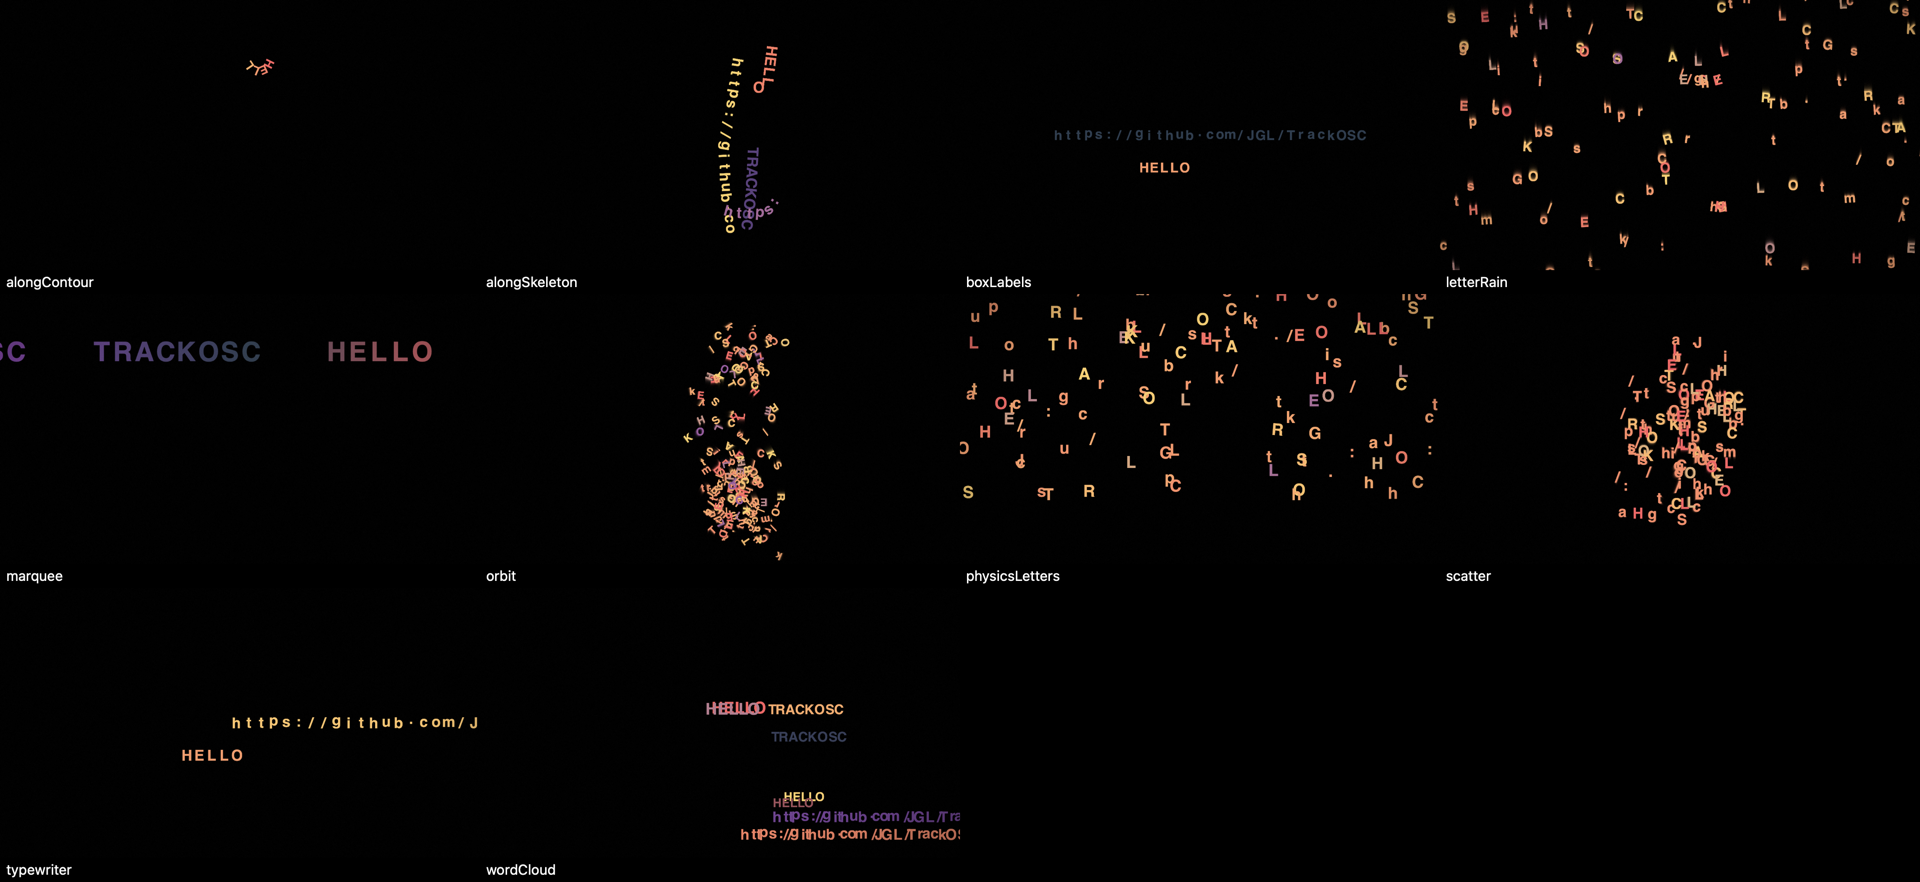
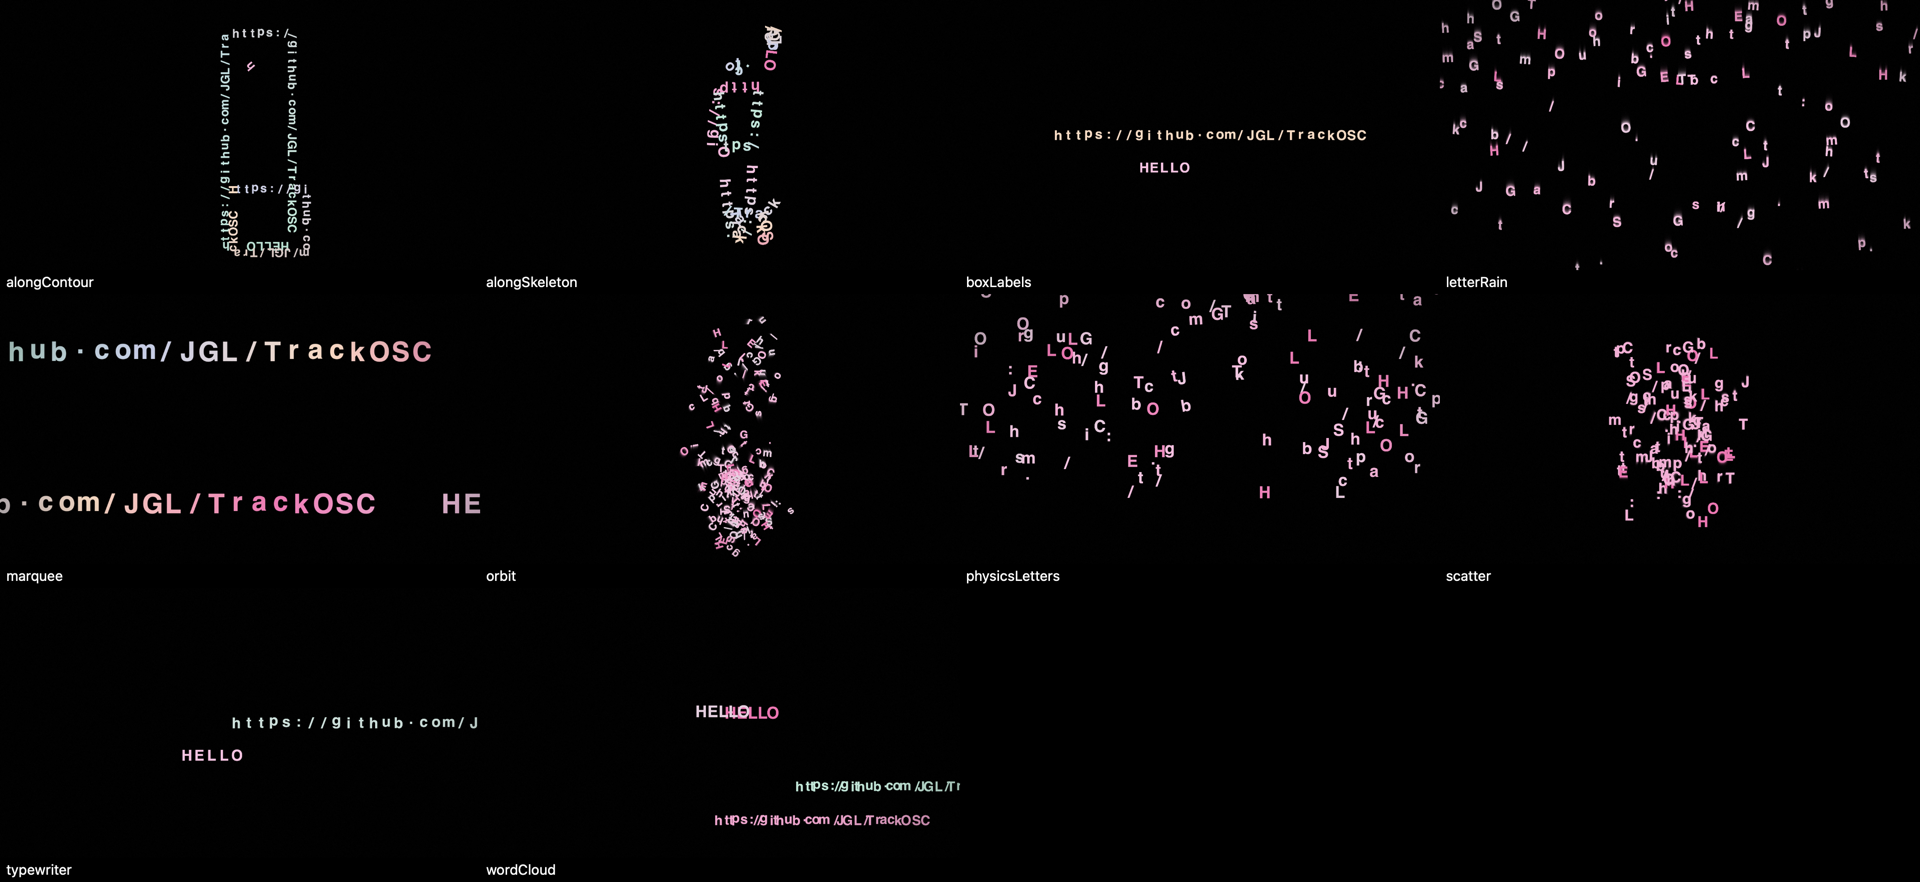
Text: words repeat along every path; heads and animals throughout
Along Skeleton lays the whole sentence, repeated and slowly crawling,
along each person's arm span, torso sides, hips, legs, fingers and head
outline (face landmarks or the circle), and each animal's spine, legs
and ears. Along Contour traces /contours/arr outlines, or faces (jaw
landmarks or the box), bodies and animals together when none arrive.
Marquee adds a row per animal.

diff --git a/Text/LetterSystem.swift b/Text/LetterSystem.swift
@@ -147,93 +147,108 @@ final class LetterSystem {
         }
     }
 
-    /// Words laid along each person's arm span and spine, letter by letter.
+    /// The sentence repeated along every path the scene offers: each
+    /// person's arm span, spine and legs and their head (face landmarks
+    /// when present, otherwise a circle), and each animal's spine, legs,
+    /// ears and tail. Letters crawl slowly along the paths.
     private func layAlongSkeleton(_ scene: TrackingScene, size: Float, aspect: Float, spacing: Float) {
         letters = []
-        guard let atlas else { return }
         let words = pool.words(at: time)
         guard !words.isEmpty else { return }
-        var wordIndex = 0
-        let ppu = pixelsPerUV
-        func lay(_ path: [SIMD2<Float>], text: String, colourT: Float) {
-            guard path.count >= 2 else { return }
-            // Arc length in pixels so letters are evenly spaced on screen.
-            func screen(_ p: SIMD2<Float>) -> SIMD2<Float> { p * ppu }
-            var lengths: [Float] = [0]
-            for i in 1..<path.count { lengths.append(lengths[i - 1] + simd_distance(screen(path[i]), screen(path[i - 1]))) }
-            let total = lengths.last!
-            let step = size * 0.7 * spacing   // letter advance in pixels
-            var s: Float = step * 0.5
-            for character in text where !character.isWhitespace {
-                guard s < total, letters.count < Self.capacity else { break }
-                var k = 1
-                while k < path.count - 1, lengths[k] < s { k += 1 }
-                let t = (s - lengths[k - 1]) / max(lengths[k] - lengths[k - 1], 1e-5)
-                let p = path[k - 1] + (path[k] - path[k - 1]) * t
-                let d = screen(path[k]) - screen(path[k - 1])
-                letters.append(Letter(character: character, word: wordIndex, position: p, rotation: atan2(d.y, d.x), size: 1, colourT: colourT))
-                s += step
+        var paths: [(points: [SIMD2<Float>], colourT: Float)] = []
+        for (pi, person) in scene.persons.enumerated() where person.confidence > 0 {
+            let base = Float(pi) * 0.3
+            func joints(_ ids: [Int]) -> [SIMD2<Float>] { ids.filter { person.visible[$0] }.map { person.joints[$0] } }
+            paths.append((joints([10, 8, 6, 5, 7, 9]), base))            // right wrist → left wrist over the shoulders
+            paths.append((joints([11, 13, 15]), base + 0.15))            // left leg
+            paths.append((joints([12, 14, 16]), base + 0.15))            // right leg
+            paths.append((joints([5, 11]), base + 0.3))                  // left side of the torso
+            paths.append((joints([6, 12]), base + 0.3))                  // right side
+            paths.append((joints([11, 12]), base + 0.3))                 // hips
+            for outline in person.headOutlines(aspect: scene.frameAspect) { paths.append((outline, base + 0.45)) }
+            for hand in person.hands {
+                for finger in [[0, 1, 2, 3, 4], [0, 5, 6, 7, 8], [0, 9, 10, 11, 12], [0, 13, 14, 15, 16], [0, 17, 18, 19, 20]] {
+                    paths.append((finger.filter { hand.visible[$0] }.map { hand.joints[$0] }, base + 0.6))
+                }
             }
         }
-        for (pi, person) in scene.persons.enumerated() where person.confidence > 0 {
-            let arm = [10, 8, 6, 5, 7, 9].filter { person.visible[$0] }.map { person.joints[$0] }   // right wrist → left wrist over the shoulders
-            let spine = [0, 11, 13, 15].filter { person.visible[$0] }.map { person.joints[$0] }
-            let leg = [12, 14, 16].filter { person.visible[$0] }.map { person.joints[$0] }
-            let word1 = words[(pi * 3) % words.count].text, word2 = words[(pi * 3 + 1) % words.count].text, word3 = words[(pi * 3 + 2) % words.count].text
-            lay(arm, text: word1, colourT: 0.1 + Float(pi) * 0.3); wordIndex += 1
-            lay(spine, text: word2, colourT: 0.4 + Float(pi) * 0.3); wordIndex += 1
-            lay(leg, text: word3, colourT: 0.7 + Float(pi) * 0.3); wordIndex += 1
-        }
         for (ai, animal) in scene.animals.enumerated() where animal.confidence > 0 {
-            let spine = [0, 9, 22, 23, 24].filter { animal.visible[$0] }.map { animal.joints[$0] }
-            lay(spine, text: words[(ai + 5) % words.count].text, colourT: 0.55); wordIndex += 1
+            let base = 0.5 + Float(ai) * 0.2
+            func joints(_ ids: [Int]) -> [SIMD2<Float>] { ids.filter { animal.visible[$0] }.map { animal.joints[$0] } }
+            paths.append((joints([0, 9, 22, 23, 24]), base))             // nose → neck → tail
+            paths.append((joints([9, 10, 11, 12]), base + 0.1))          // left front leg
+            paths.append((joints([9, 13, 14, 15]), base + 0.1))          // right front leg
+            paths.append((joints([22, 16, 17, 18]), base + 0.2))         // left back leg
+            paths.append((joints([22, 19, 20, 21]), base + 0.2))         // right back leg
+            paths.append((joints([1, 5, 4, 3]), base + 0.3))             // left ear
+            paths.append((joints([2, 8, 7, 6]), base + 0.3))             // right ear
         }
-        _ = atlas
+        layRepeating(words, along: paths, size: size, spacing: spacing)
     }
 
-    /// Words along detected outlines: /contours/arr first, then a face's jaw, then the body's outline.
+    /// Lays the words, repeated, along each path, letters crawling with time.
+    private func layRepeating(_ words: [PoolEntry], along paths: [(points: [SIMD2<Float>], colourT: Float)], size: Float, spacing: Float) {
+        let ppu = pixelsPerUV
+        let sentence = Array(words.map(\.text).joined(separator: "  ") + "  ")
+        guard !sentence.isEmpty else { return }
+        let step = size * 0.7 * spacing   // letter advance in pixels
+        func screen(_ p: SIMD2<Float>) -> SIMD2<Float> { p * ppu }
+        for (pi, path) in paths.enumerated() where path.points.count >= 2 {
+            var lengths: [Float] = [0]
+            for i in 1..<path.points.count { lengths.append(lengths[i - 1] + simd_distance(screen(path.points[i]), screen(path.points[i - 1]))) }
+            let total = lengths.last!
+            guard total > step else { continue }
+            let crawl = fmodf(time * 20 + Float(pi) * 37, step * Float(sentence.count))
+            var s: Float = -crawl
+            var ci = 0
+            while s < total, letters.count < Self.capacity {
+                let character = sentence[ci % sentence.count]
+                ci += 1
+                defer { s += step }
+                if character.isWhitespace || s < 0 { continue }
+                var k = 1
+                while k < path.points.count - 1, lengths[k] < s { k += 1 }
+                let t = (s - lengths[k - 1]) / max(lengths[k] - lengths[k - 1], 1e-5)
+                let p = path.points[k - 1] + (path.points[k] - path.points[k - 1]) * t
+                let d = screen(path.points[k]) - screen(path.points[k - 1])
+                letters.append(Letter(character: character, word: pi, position: p, rotation: atan2(d.y, d.x), size: 1,
+                                      colourT: path.colourT + s / max(total, 1) * 0.2))
+            }
+        }
+    }
+
+    /// Words along detected outlines: /contours/arr first, then faces
+    /// (landmarks or the box), then the outline of each person and animal.
     private func layAlongContour(_ scene: TrackingScene, size: Float, aspect: Float, spacing: Float) {
         letters = []
         let words = pool.words(at: time)
         guard !words.isEmpty else { return }
-        var paths: [[SIMD2<Float>]] = []
-        for contour in scene.contours.prefix(6) { paths.append(contour + [contour[0]]) }
+        var paths: [(points: [SIMD2<Float>], colourT: Float)] = []
+        for (i, contour) in scene.contours.prefix(8).enumerated() { paths.append((contour + [contour[0]], Float(i) * 0.15)) }
         if paths.isEmpty {
-            for face in scene.faces where face.landmarks.count >= 76 {
-                paths.append(Array(face.landmarks[59..<76]))
+            // No outlines from the sender: trace faces, bodies and animals instead.
+            for (i, face) in scene.faces.enumerated() {
+                if face.landmarks.count >= 76 {
+                    paths.append((Array(face.landmarks[59..<76]), Float(i) * 0.2))
+                } else {
+                    paths.append(((0...24).map { k in
+                        let angle = Float(k) / 24 * 2 * .pi
+                        return face.centre + SIMD2(cosf(angle) * face.size.x * 0.5, sinf(angle) * face.size.y * 0.5)
+                    }, Float(i) * 0.2))
+                }
+            }
+            func box(_ lo: SIMD2<Float>, _ hi: SIMD2<Float>, _ t: Float) {
+                let pad = SIMD2<Float>(0.04 / max(aspect, 0.1), 0.04)
+                paths.append(([lo - pad, SIMD2(hi.x + pad.x, lo.y - pad.y), hi + pad, SIMD2(lo.x - pad.x, hi.y + pad.y), lo - pad], t))
+            }
+            for (i, person) in scene.persons.enumerated() where person.confidence > 0 { box(person.boundingBox.min, person.boundingBox.max, 0.3 + Float(i) * 0.3) }
+            for (i, animal) in scene.animals.enumerated() where animal.confidence > 0 {
+                let visible = zip(animal.joints, animal.visible).filter { $0.1 }.map { $0.0 }
+                guard !visible.isEmpty else { continue }
+                box(visible.reduce(SIMD2(1, 1)) { simd_min($0, $1) }, visible.reduce(SIMD2(0, 0)) { simd_max($0, $1) }, 0.6 + Float(i) * 0.2)
             }
         }
-        if paths.isEmpty {
-            for person in scene.persons where person.confidence > 0 {
-                let (lo, hi) = person.boundingBox
-                let pad = SIMD2<Float>(0.04 / aspect, 0.04)
-                paths.append([lo - pad, SIMD2(hi.x + pad.x, lo.y - pad.y), hi + pad, SIMD2(lo.x - pad.x, hi.y + pad.y), lo - pad])
-            }
-        }
-        let ppu = pixelsPerUV
-        func screen(_ p: SIMD2<Float>) -> SIMD2<Float> { p * ppu }
-        let sentence = words.map(\.text).joined(separator: " ")
-        for (pi, path) in paths.enumerated() where path.count >= 2 {
-            var lengths: [Float] = [0]
-            for i in 1..<path.count { lengths.append(lengths[i - 1] + simd_distance(screen(path[i]), screen(path[i - 1]))) }
-            let total = lengths.last!
-            let step = size * 0.7 * spacing
-            var s: Float = fmodf(time * 40, step)
-            var ci = 0
-            let chars = Array(sentence)
-            while s < total, letters.count < Self.capacity, !chars.isEmpty {
-                let character = chars[ci % chars.count]
-                ci += 1
-                if character.isWhitespace { s += step; continue }
-                var k = 1
-                while k < path.count - 1, lengths[k] < s { k += 1 }
-                let t = (s - lengths[k - 1]) / max(lengths[k] - lengths[k - 1], 1e-5)
-                let p = path[k - 1] + (path[k] - path[k - 1]) * t
-                let d = screen(path[k]) - screen(path[k - 1])
-                letters.append(Letter(character: character, word: pi, position: p, rotation: atan2(d.y, d.x), size: 1, colourT: Float(pi) * 0.2 + s / max(total, 0.01) * 0.3))
-                s += step
-            }
-        }
+        layRepeating(words, along: paths, size: size, spacing: spacing)
     }
 
     private func stepWordCloud(_ scene: TrackingScene, dt: Float, speed: Float, density: Int, aspect: Float, radius: Float) {
@@ -333,7 +348,9 @@ final class LetterSystem {
         let chars = Array(sentence)
         let advance = advanceUV("M", size: size) * 0.95
         let total = advance * Float(chars.count)
-        let rows: [Float] = scene.persons.isEmpty ? [0.5] : scene.persons.filter { $0.confidence > 0 && $0.visible[0] }.map { $0.joints[0].y }
+        var rows: [Float] = scene.persons.filter { $0.confidence > 0 && $0.visible[0] }.map { $0.joints[0].y }
+        rows += scene.animals.filter { $0.confidence > 0 && $0.visible[0] }.map { $0.joints[0].y }
+        if rows.isEmpty { rows = [0.5] }
         let vp = viewport
         for (ri, row) in rows.prefix(Int(max(lines, 1))).enumerated() {
             var x = fmodf(marqueeOffset + Float(ri) * 0.37, total)

diff --git a/README.md b/README.md
@@ -543,7 +543,11 @@ or the body's outline), **Word Cloud**, **Orbit** (letters circle every
 joint), **Scatter** (a resting sentence that fast movements scatter),
 **Typewriter** (recognised text typed out where it was read), **Marquee**
 (words scroll past at the height of each head), **Box Labels** (text and
-codes where they were seen) and **Letter Rain**.
+codes where they were seen) and **Letter Rain**. However many words there
+are, they repeat to fill whatever they run along; heads are the face
+landmarks when they arrive and a circle otherwise, and cats and dogs get
+words along their spines, legs, ears and tails, marquee rows and outlines
+just like people.
 
 ### Hiding the video
 
